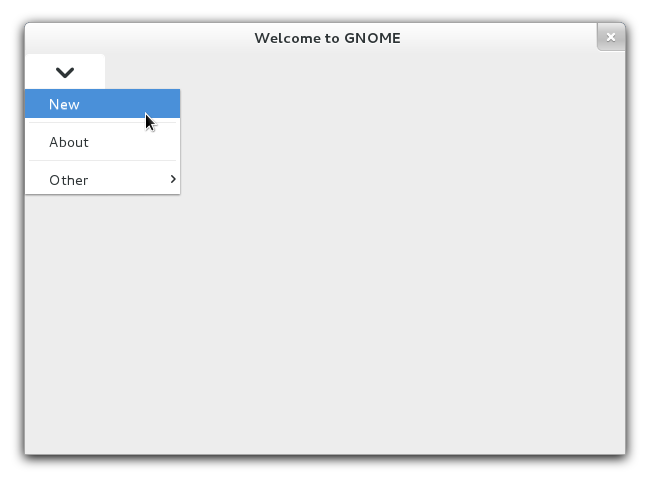
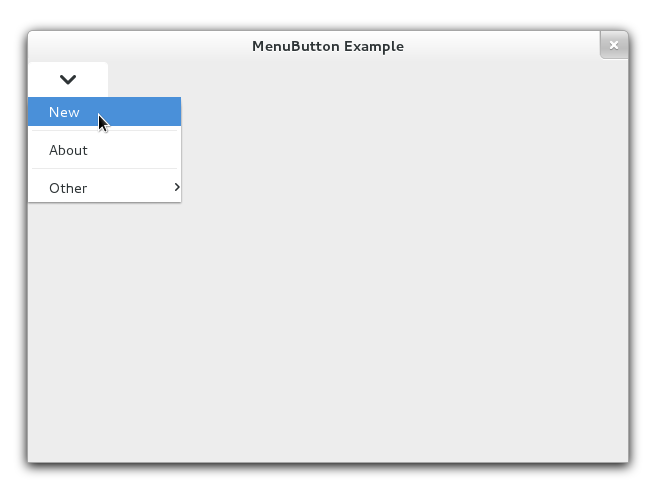
demos: small fixes to menubutton pages and screenshot

Changed region(s): [[0.031, 0.0312, 0.9922, 0.9688]]

diff --git a/platform-demos/C/samples/menubutton.js b/platform-demos/C/samples/menubutton.js
@@ -22,7 +22,7 @@ const Application = new Lang.Class ({
     _buildUI: function() {
         this._window = new Gtk.ApplicationWindow({ application: this.application,
                                                    window_position: Gtk.WindowPosition.CENTER,
-                                                   title: "Welcome to GNOME" });
+                                                   title: "MenuButton Example" });
         this._window.set_default_size(600, 400);
         this.grid = new Gtk.Grid();
         this._window.add(this.grid);
